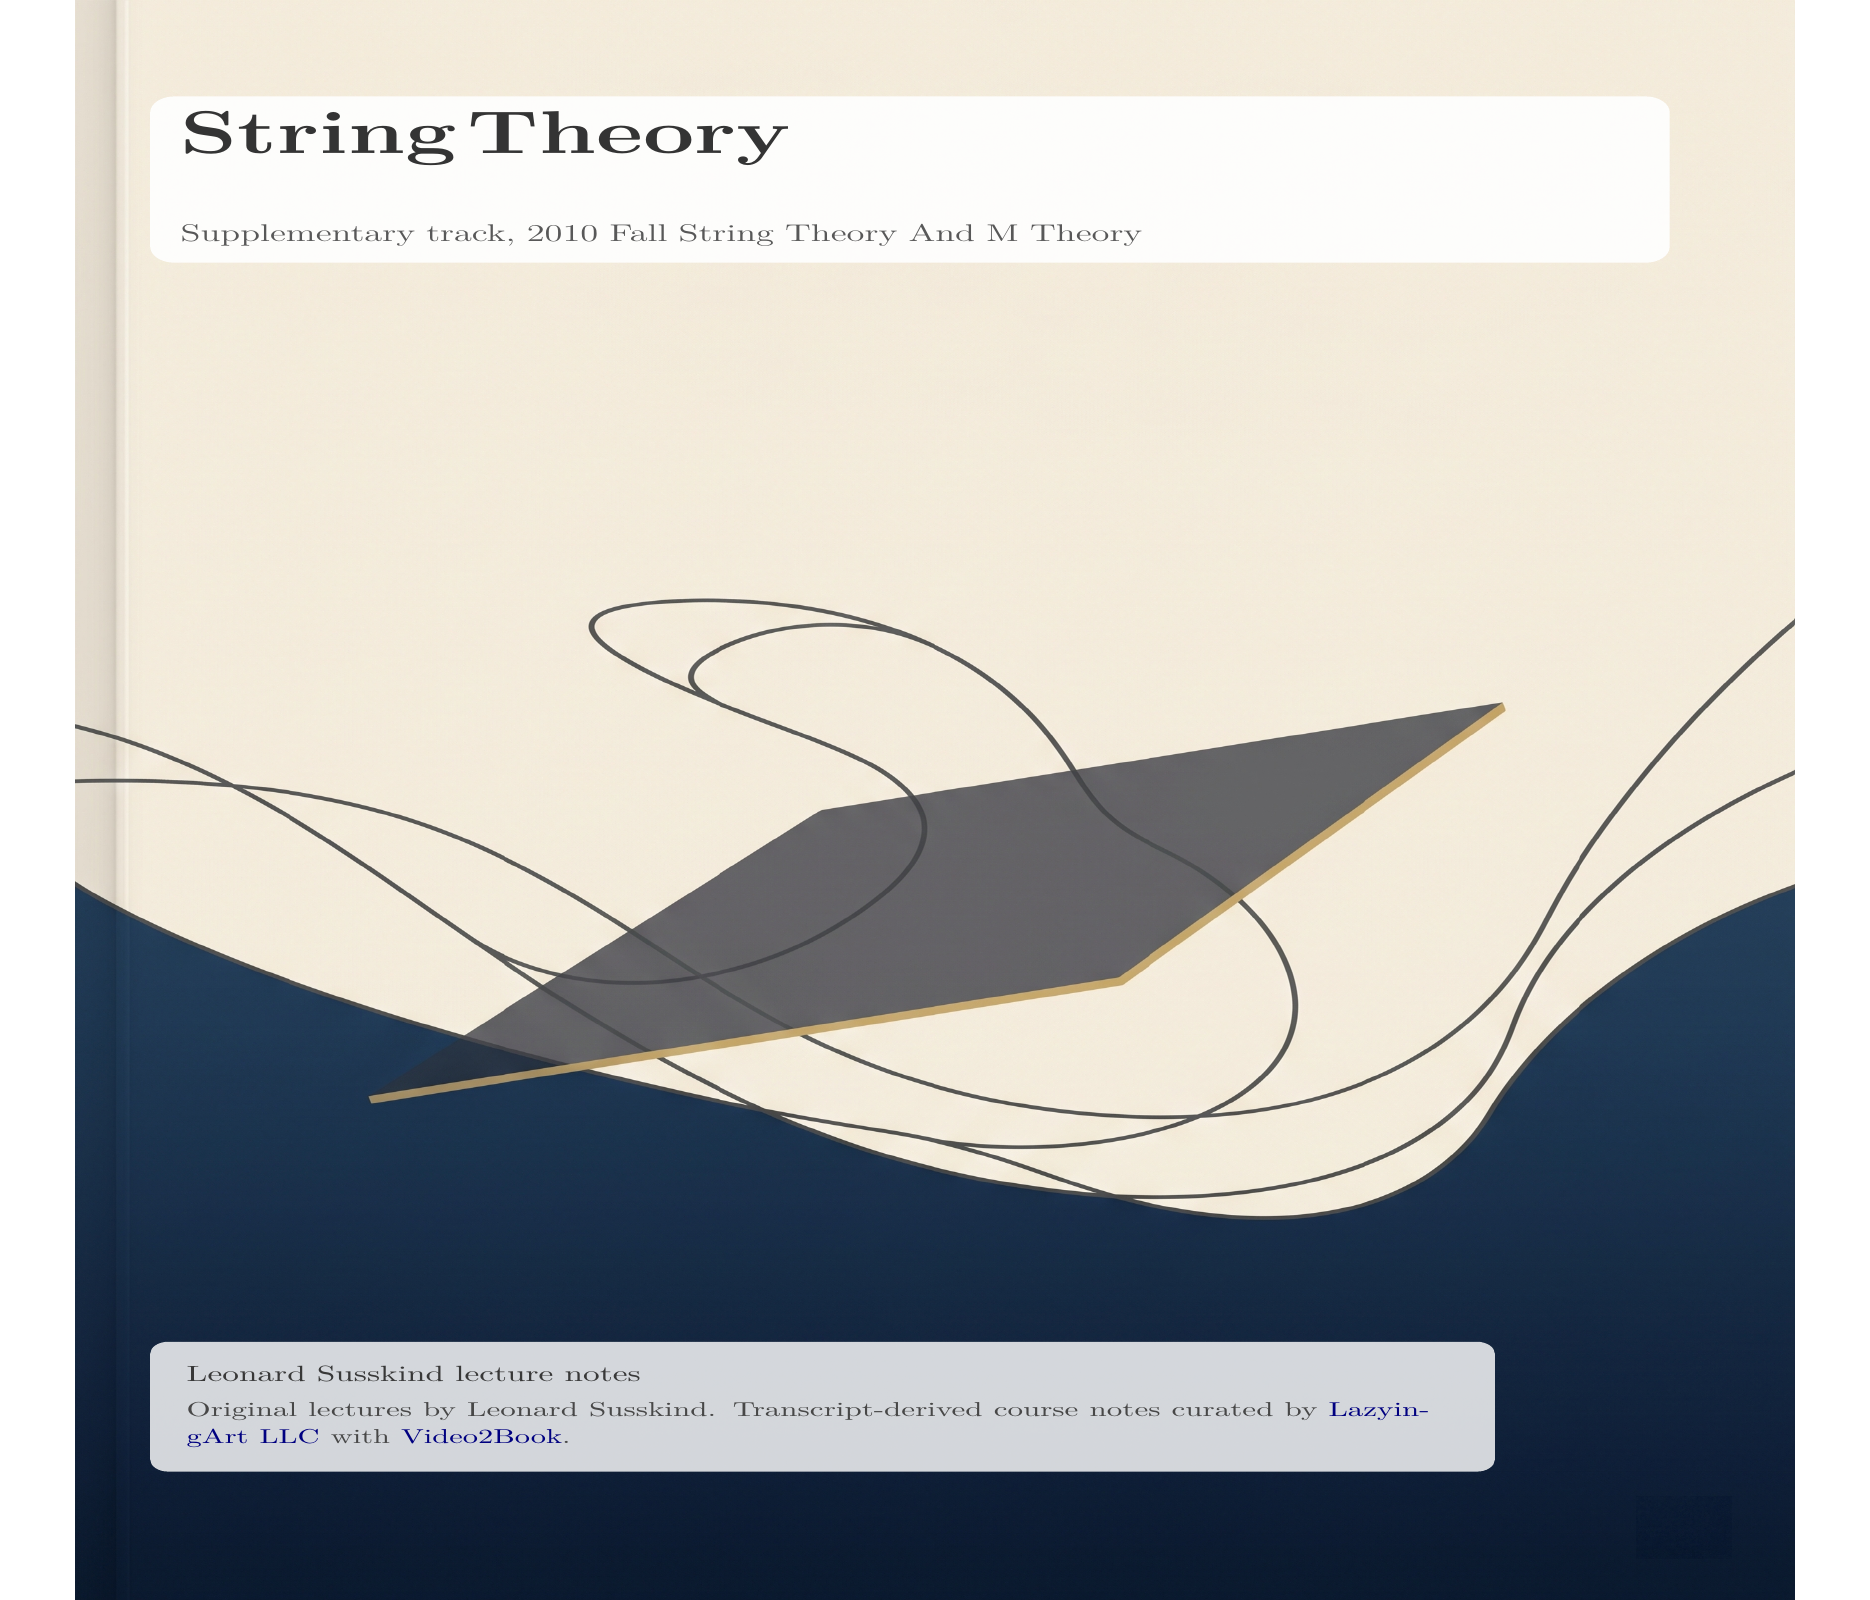
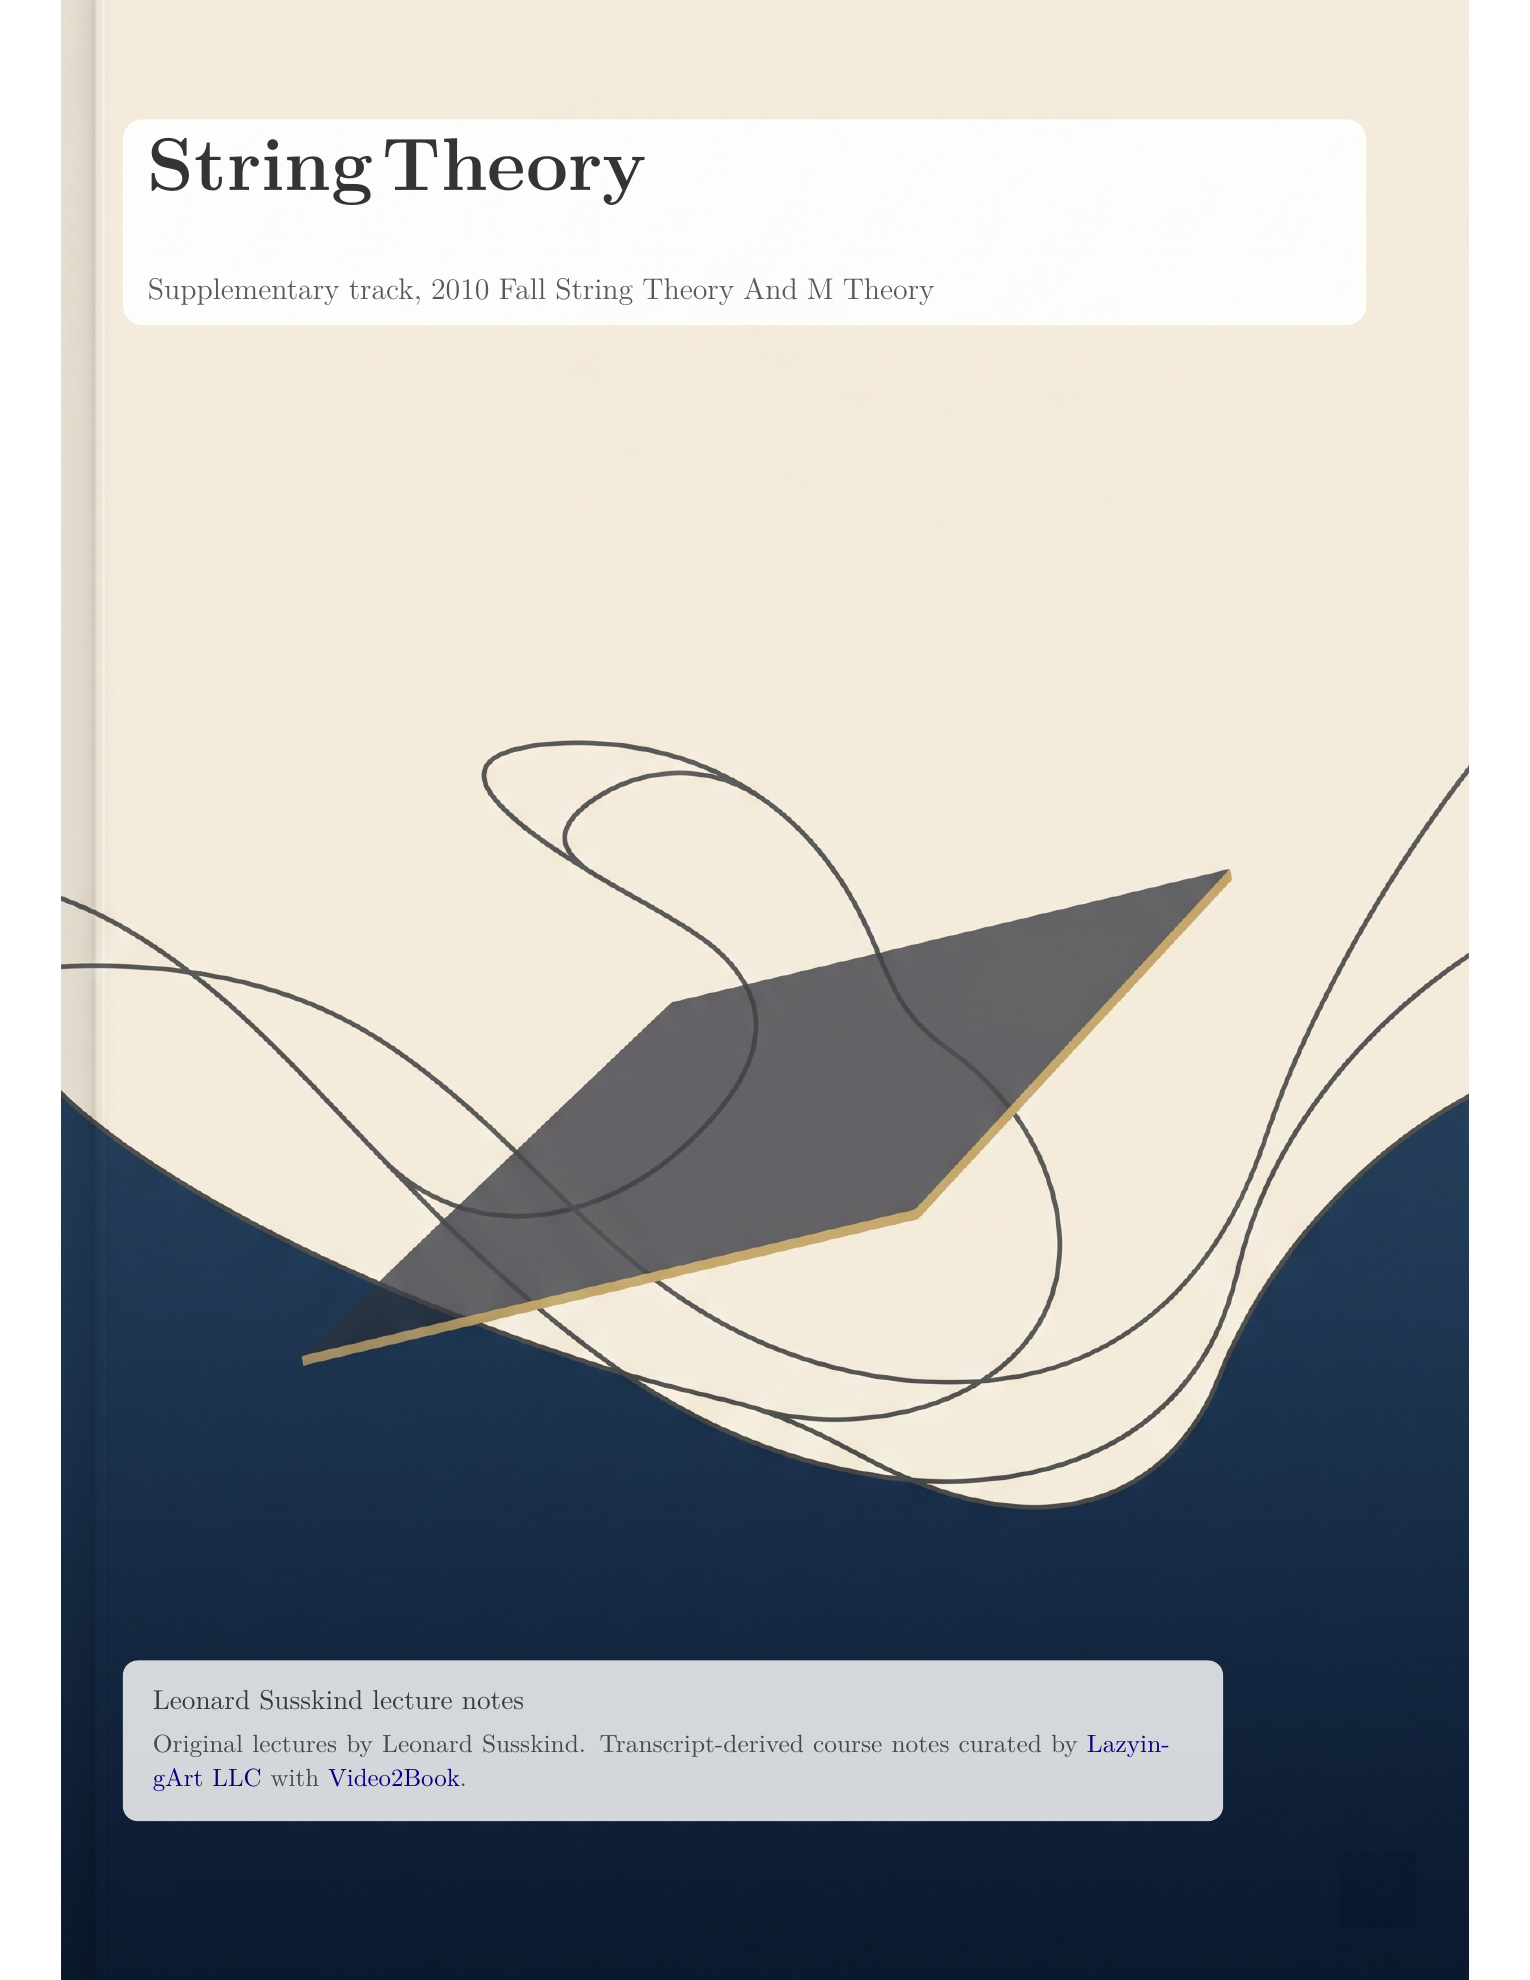
Use PDF-first-page thumbnails for README covers

Changed region(s): [[0.0922, 0.0625, 0.1229, 0.0938]]

diff --git a/README.md b/README.md
@@ -23,7 +23,7 @@ It combines lecture transcriptions, subtitle files, generated TeX notes, compile
 
 ## 📚 Published Books
 
-> 📷 Preview covers are now sourced from the most reliable source per title for consistency across the root README and website-facing previews: first-page PDF extracts where available, with generated nanobanana covers where needed.
+> 📷 Preview covers are sourced from each course PDF's first page so root README and website cards always match the actual published text and layout.
 
 <table>
   <tr>
